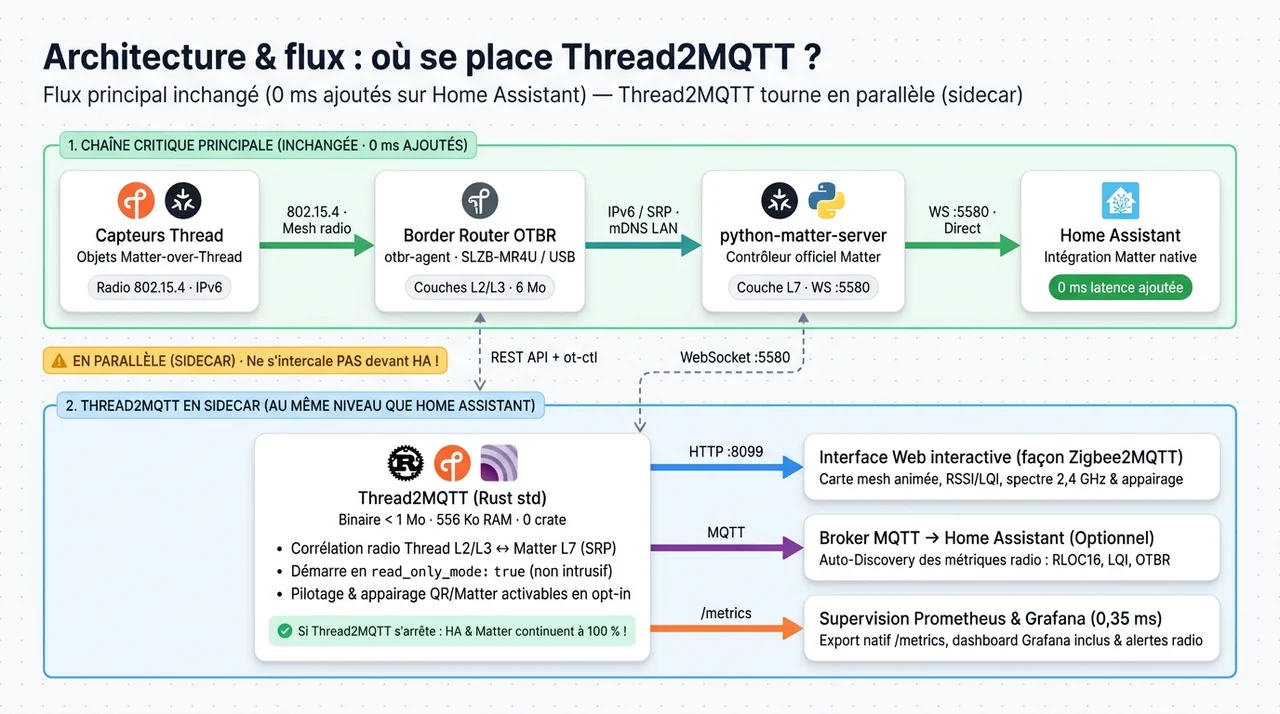
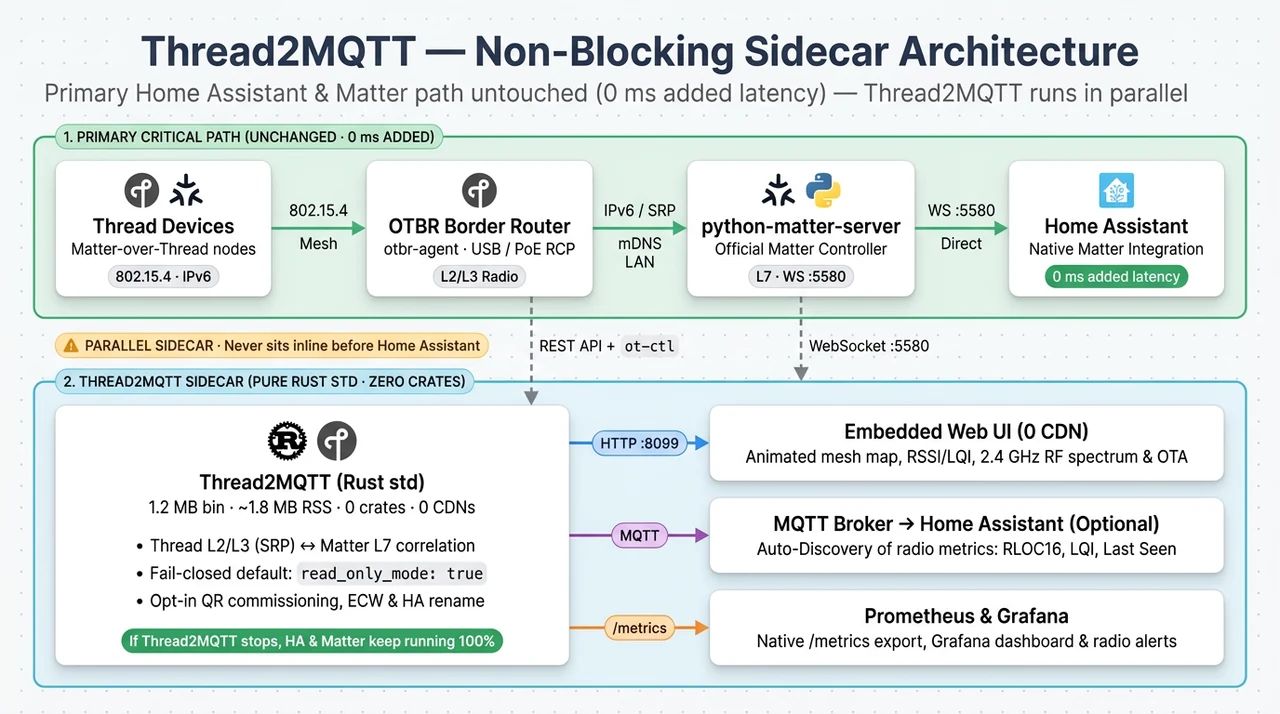
release(v0.5.0): publish hardened prd snapshot

diff --git a/README.md b/README.md
@@ -6,7 +6,7 @@
 
 <p align="center">
   <strong>Open-source Rust Thread &amp; Matter Debugger + Home Assistant MQTT Bridge</strong><br/>
-  Embedded Web UI · Animated Mesh Map · 2.4 GHz RF Spectrum · <code>&lt; 1 MB</code> RSS · <strong>0 external crates</strong> · <strong>0 CDNs</strong>
+  Embedded Web UI · Animated Mesh Map · 2.4 GHz RF Spectrum · <code>~1.8 MB</code> RSS · <strong>0 external crates</strong> · <strong>0 CDNs</strong>
 </p>
 
 <p align="center">
@@ -48,7 +48,7 @@ Home Assistant + `python-matter-server` controls Matter Layer 7, but exposes **n
 | Commissioning + Native QR Camera + Host BLE/USB Detection | Basic UI | **Built-in (`configuration.yaml`)** |
 | 2.4 GHz RF Energy Scan + MAC/IPv6 Counters + Read-only `ot-ctl` | No | **Built-in** |
 | Prometheus `/metrics` + Grafana Dashboard + Alert Rules | No | **Built-in (`monitoring/`)** |
-| Runtime Footprint | `~30-100 MB` (Python) | **`984 KB` RSS (`0` crates)** |
+| Runtime Footprint | `~30-100 MB` (Python) | **`~1.8 MB` RSS (`1.2 MB` bin, `0` crates)** |
 
 ## Quick Start
 
@@ -77,11 +77,11 @@ Open **Settings -> Detect local hardware** (`GET /api/hardware/scan`) to inspect
 
 - **64-bit Matter IDs vs `f64`:** Real `python-matter-server` snapshots carry 64-bit `compressed_fabric_id` integers that lose precision in float-backed JSON parsers; solved with exact `JsonVal::Uint(u64)` in `src/matter_ws.rs`.
 - **Matter WS errors inside HTTP 200:** Commissioning and cluster calls return JSON `error_code` frames over an active WebSocket; `write_matter_reply` translates them to HTTP `502`.
-- **Zero-crate constraint:** RFC 6455 WS, RFC 8259 JSON, Base38/Verhoeff (Matter Spec 5.1.4.1), and MQTT 3.1.1 are implemented directly on `std`, keeping the static binary near `1 MB` and live RSS under `1 MB`.
-- **Workflow:** Built and bench-tested against live `otbr-agent` + `python-matter-server` hardware (`14/14` unit tests). Full history in [`CHANGELOG.md`](CHANGELOG.md).
+- **Zero-crate constraint:** RFC 6455 WS, RFC 8259 JSON, Base38/Verhoeff (Matter Spec 5.1.4.1), and MQTT 3.1.1 are implemented directly on `std`, keeping the static binary at `1.2 MB` (including 6 embedded WebP assets) and live RSS around `~1.8 MB`.
+- **Workflow:** Built and bench-tested against live `otbr-agent` + `python-matter-server` hardware (`16/16` unit tests). Full history in [`CHANGELOG.md`](CHANGELOG.md).
 
 ## Monitoring, CI/Releases & License
 
 - `GET /metrics` (Prometheus), `GET /api/alerts`, [`monitoring/grafana-dashboard.json`](monitoring/grafana-dashboard.json), [`monitoring/prometheus-alerts.yml`](monitoring/prometheus-alerts.yml), multi-arch CI/Release [`.github/workflows/ci-release.yml`](.github/workflows/ci-release.yml).
-- Secret masking on `networkKey` & `pskc`, hardened container (`USER 1000:1000`, `read_only: true`, `cap_drop: [ALL]`, `mem_limit: 32m`).
+- Secret masking on `networkKey` & `pskc`, hardened container (`USER 1000:1000`, `read_only: true`, `cap_drop: [ALL]`, `mem_limit: 64m`).
 - See [`CONTRIBUTING.md`](CONTRIBUTING.md) and [`AGENTS.md`](AGENTS.md). Licensed under [MIT](LICENSE) - **Ravindra JOB**.

diff --git a/CHANGELOG.md b/CHANGELOG.md
@@ -2,7 +2,7 @@
 
 Iterative engineering log across real homelab Thread (OTBR) and `python-matter-server` testing.
 
-## v0.5.0 - Ergonomic Sidebar Layout, Simple/Advanced Mode, QR Camera & Hardware Scan (`971 KB` bin / `936 KB` RSS)
+## v0.5.0 - Ergonomic Sidebar Layout, Simple/Advanced Mode, QR Camera & Hardware Scan (`1.2 MB` bin / `~1.8 MB` RSS, 6 embedded WebP assets)
 - **Pedagogical UI tooltips (`ⓘ`), IPv6 OMR route check & `UNMATCHED` log filter:** Pure-CSS hover/focus tooltips on Thread/Matter concepts (RLOC16, IPv6 OMR, SRP, mDNS, Multi-Admin ECW, Dataset Vault), non-root `/proc/net/ipv6_route` OMR route verification badge on Dashboard & Devices, `UNMATCHED` correlation filter in live Logs, Zero-Trust CLI backup guide in Vault, and versioned [`docs/GUIDE.md`](docs/GUIDE.md) (Option A vs Option B, IPv6/mDNS, Multi-Admin Alexa/Google/Apple, Security & Backup).
 - Structured left navigation (`Home`, `Dashboard`, `Devices`, `Groups`, `Radio & RF`, `Matter L7`, `OTA`, `Commissioning`, `Network`, `Logs`, `Dev Console`, `Settings`) with **Simple / Advanced** mode toggle.
 - Added native browser `BarcodeDetector` QR camera scanner for `MT:...` Matter payloads with manual fallback.
